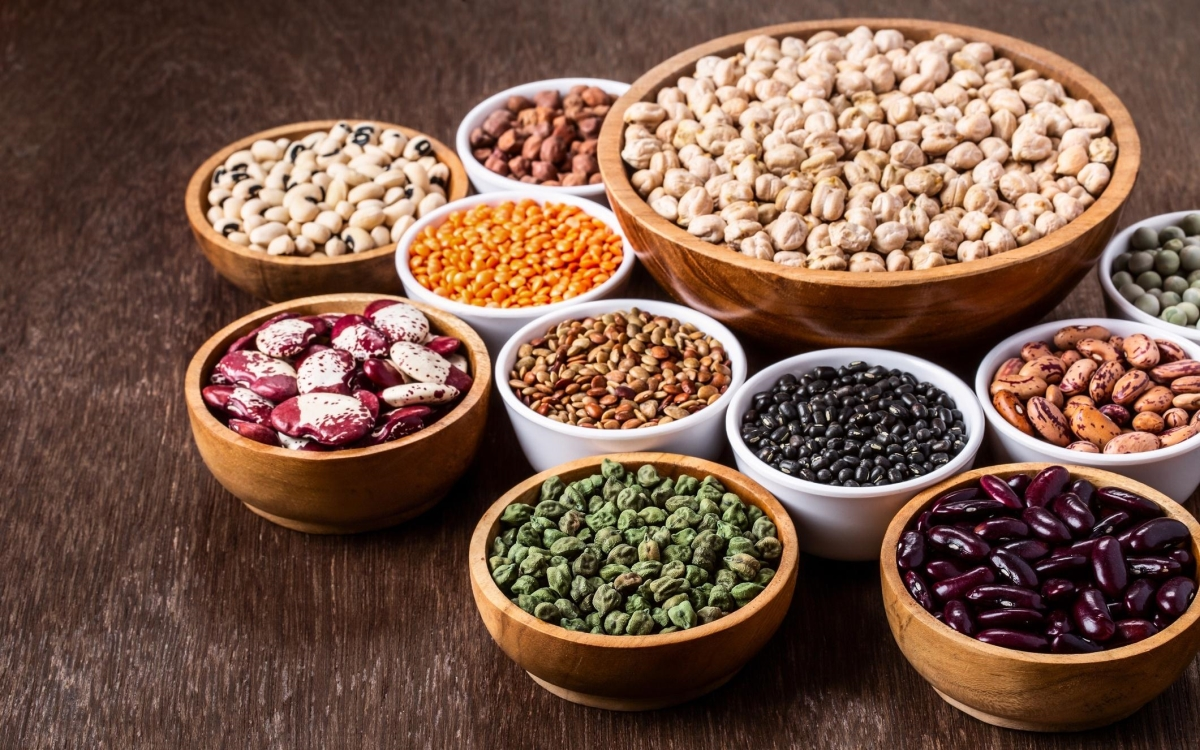
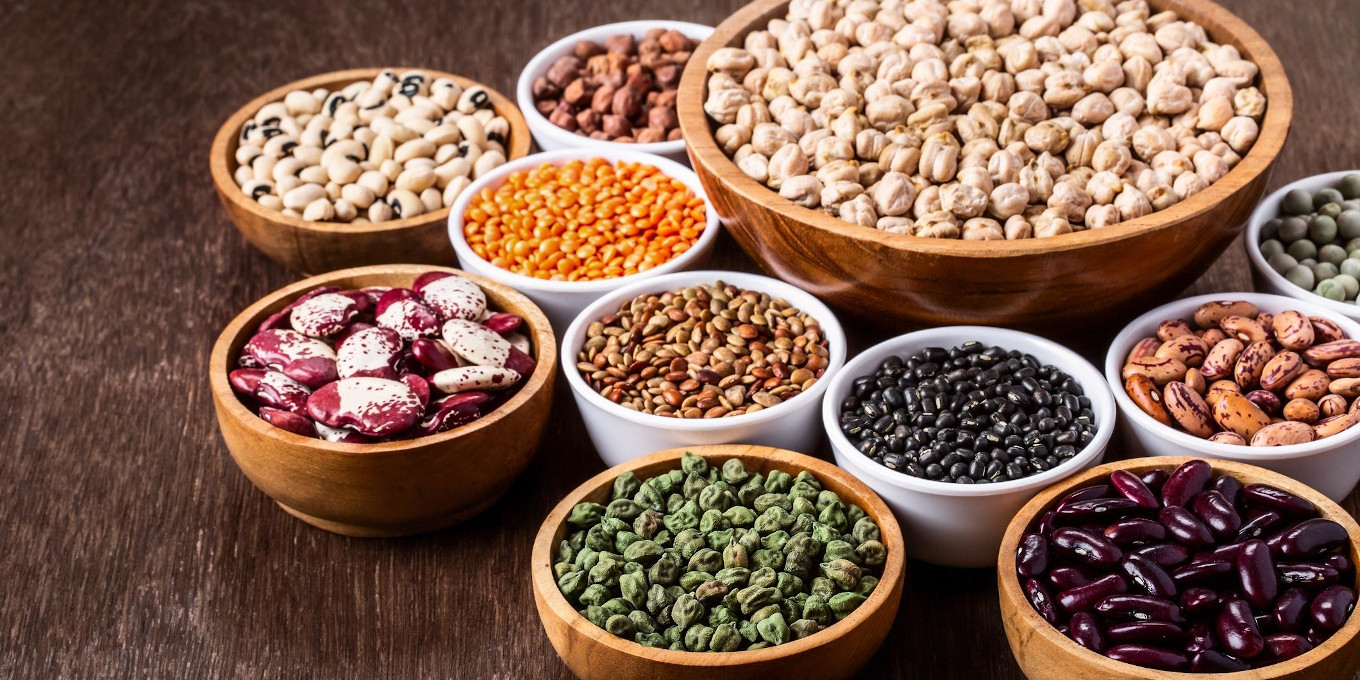
Fix carousel images responsiveness on mobile

diff --git a/resources/views/home.blade.php b/resources/views/home.blade.php
@@ -15,28 +15,22 @@
     </ol>
     <div class="carousel-inner rounded-lg">
       <div class="carousel-item active rounded-lg">
-        <img src="{{ asset('images/slide1.jpg') }}" class="d-block w-100 rounded-lg img-fluid" width="1110px"
-             height="555px" alt="...">
+        <img src="{{ asset('images/slide1.jpg') }}" class="d-block w-100 rounded-lg img-fluid" alt="...">
       </div>
       <div class="carousel-item rounded-lg">
-        <img src="{{ asset('images/slide2.jpg') }}" class="d-block w-100 img-fluid" width="1110px" height="555px"
-             alt="...">
+        <img src="{{ asset('images/slide2.jpg') }}" class="d-block w-100 img-fluid" alt="...">
       </div>
       <div class="carousel-item rounded-lg">
-        <img src="{{ asset('images/slide3.jpg') }}" class="d-block w-100 rounded-lg img-fluid" width="1110px"
-             height="555px" alt="...">
+        <img src="{{ asset('images/slide3.jpg') }}" class="d-block w-100 rounded-lg img-fluid" alt="...">
       </div>
       <div class="carousel-item rounded-lg">
-        <img src="{{ asset('images/slide4.jpg') }}" class="d-block w-100 rounded-lg img-fluid" width="1110px"
-             height="555px" alt="...">
+        <img src="{{ asset('images/slide4.jpg') }}" class="d-block w-100 rounded-lg img-fluid" alt="...">
       </div>
       <div class="carousel-item rounded-lg">
-        <img src="{{ asset('images/slide5.jpg') }}" class="d-block w-100 rounded-lg img-fluid" width="1110px"
-             height="555px" alt="...">
+        <img src="{{ asset('images/slide5.jpg') }}" class="d-block w-100 rounded-lg img-fluid" alt="...">
       </div>
       <div class="carousel-item rounded-lg">
-        <img src="{{ asset('images/slide6.jpg') }}" class="d-block w-100 rounded-lg img-fluid" width="1110px"
-             height="555px" alt="...">
+        <img src="{{ asset('images/slide6.jpg') }}" class="d-block w-100 rounded-lg img-fluid" alt="...">
       </div>
     </div>
   </div>
